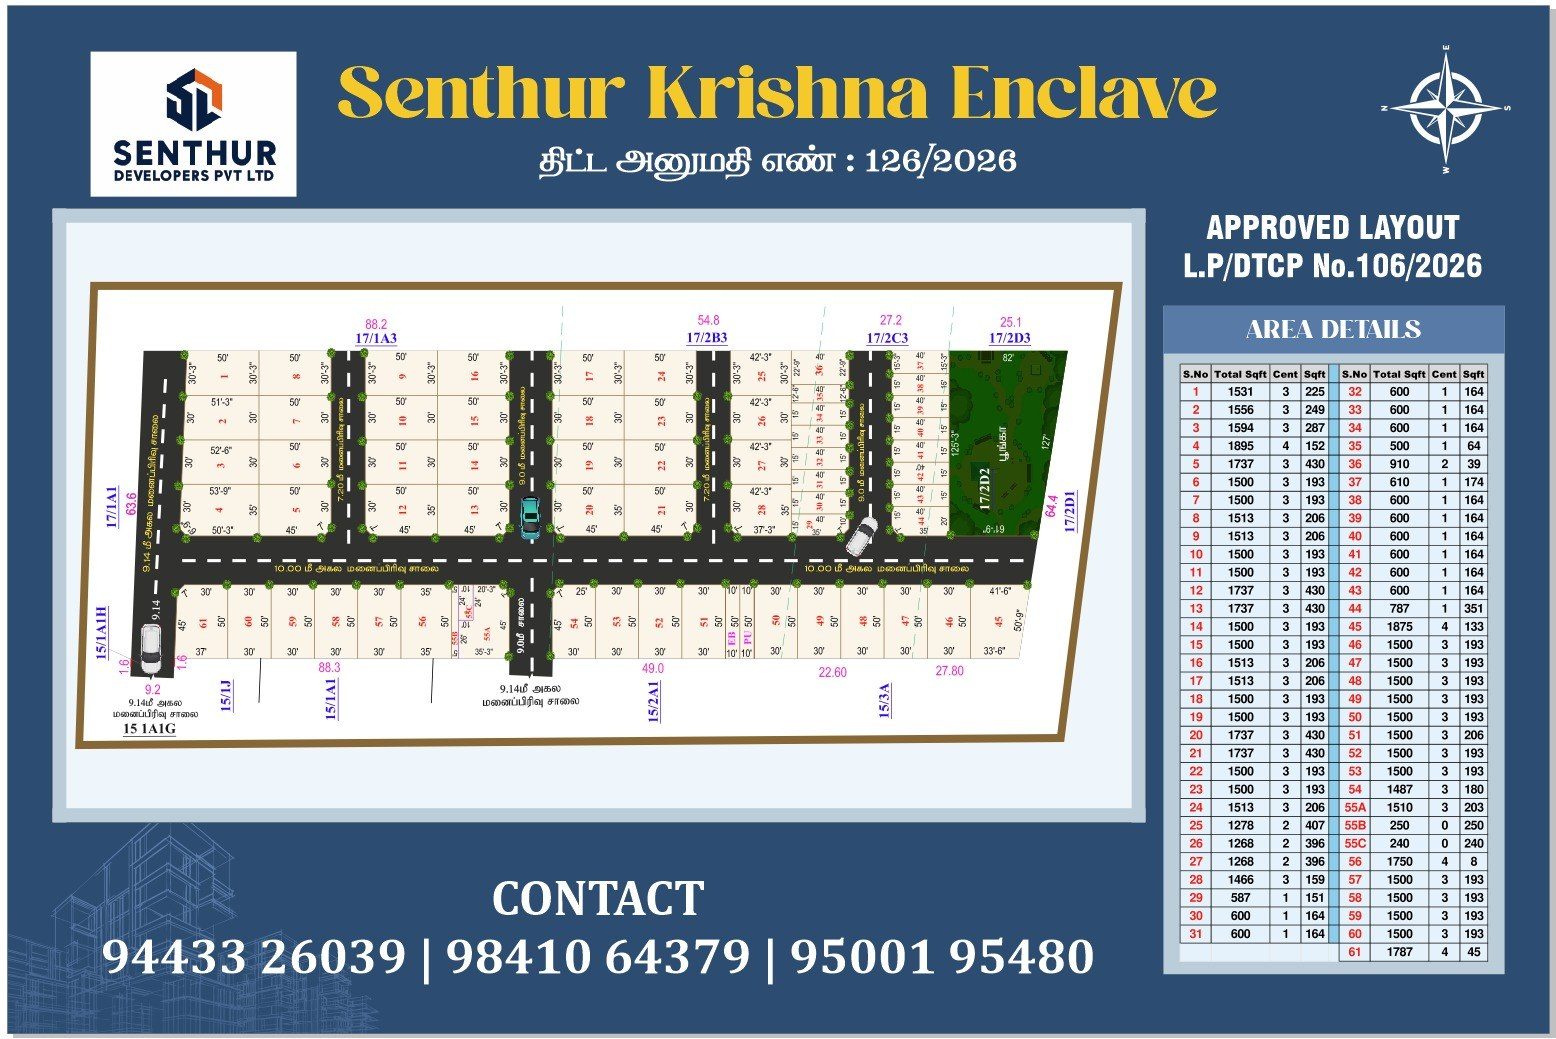
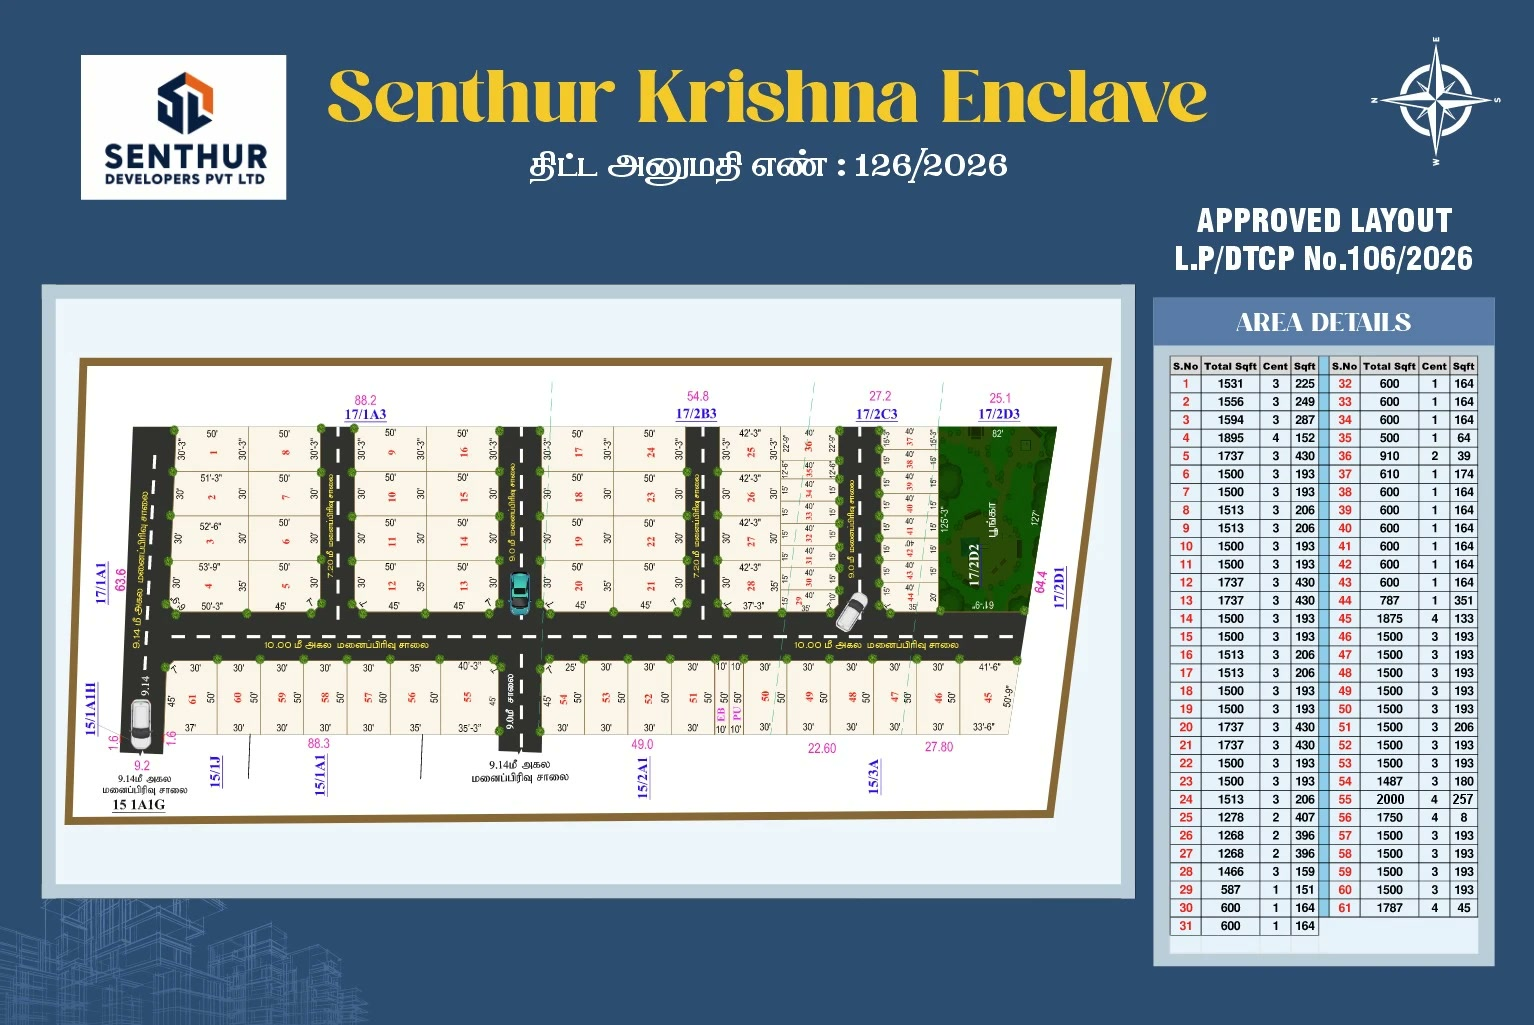
Updated approved-layout map: plot 55 consolidated, clean flyer without contact strip

diff --git a/src/components/Layout.jsx b/src/components/Layout.jsx
@@ -29,8 +29,8 @@ export default function Layout() {
             src={layout.image}
             alt={layout.alt}
             loading="lazy"
-            width="1556"
-            height="1039"
+            width="1534"
+            height="1025"
           />
 
           <ul className="layout-facts">

diff --git a/CHANGELOG.md b/CHANGELOG.md
@@ -1,0 +1,8 @@
+# Changelog
+
+## 2026-08-09 11:20 IST · Updated approved-layout map on the launch page
+
+- Replaced `public/layout-map.jpg` and `public/layout-map.png` with the latest approved-layout flyer: plot 55 is now one consolidated 2000 sqft plot (was split 55A/55B/55C), and the contact-number strip is gone from the artwork.
+- Updated the `<img>` intrinsic dimensions in `src/components/Layout.jsx` to the new artwork size (1534×1025).
+- User-facing: the "approved layout" section on /launch now shows the current plot map and area-details table.
+- `(pending)`
